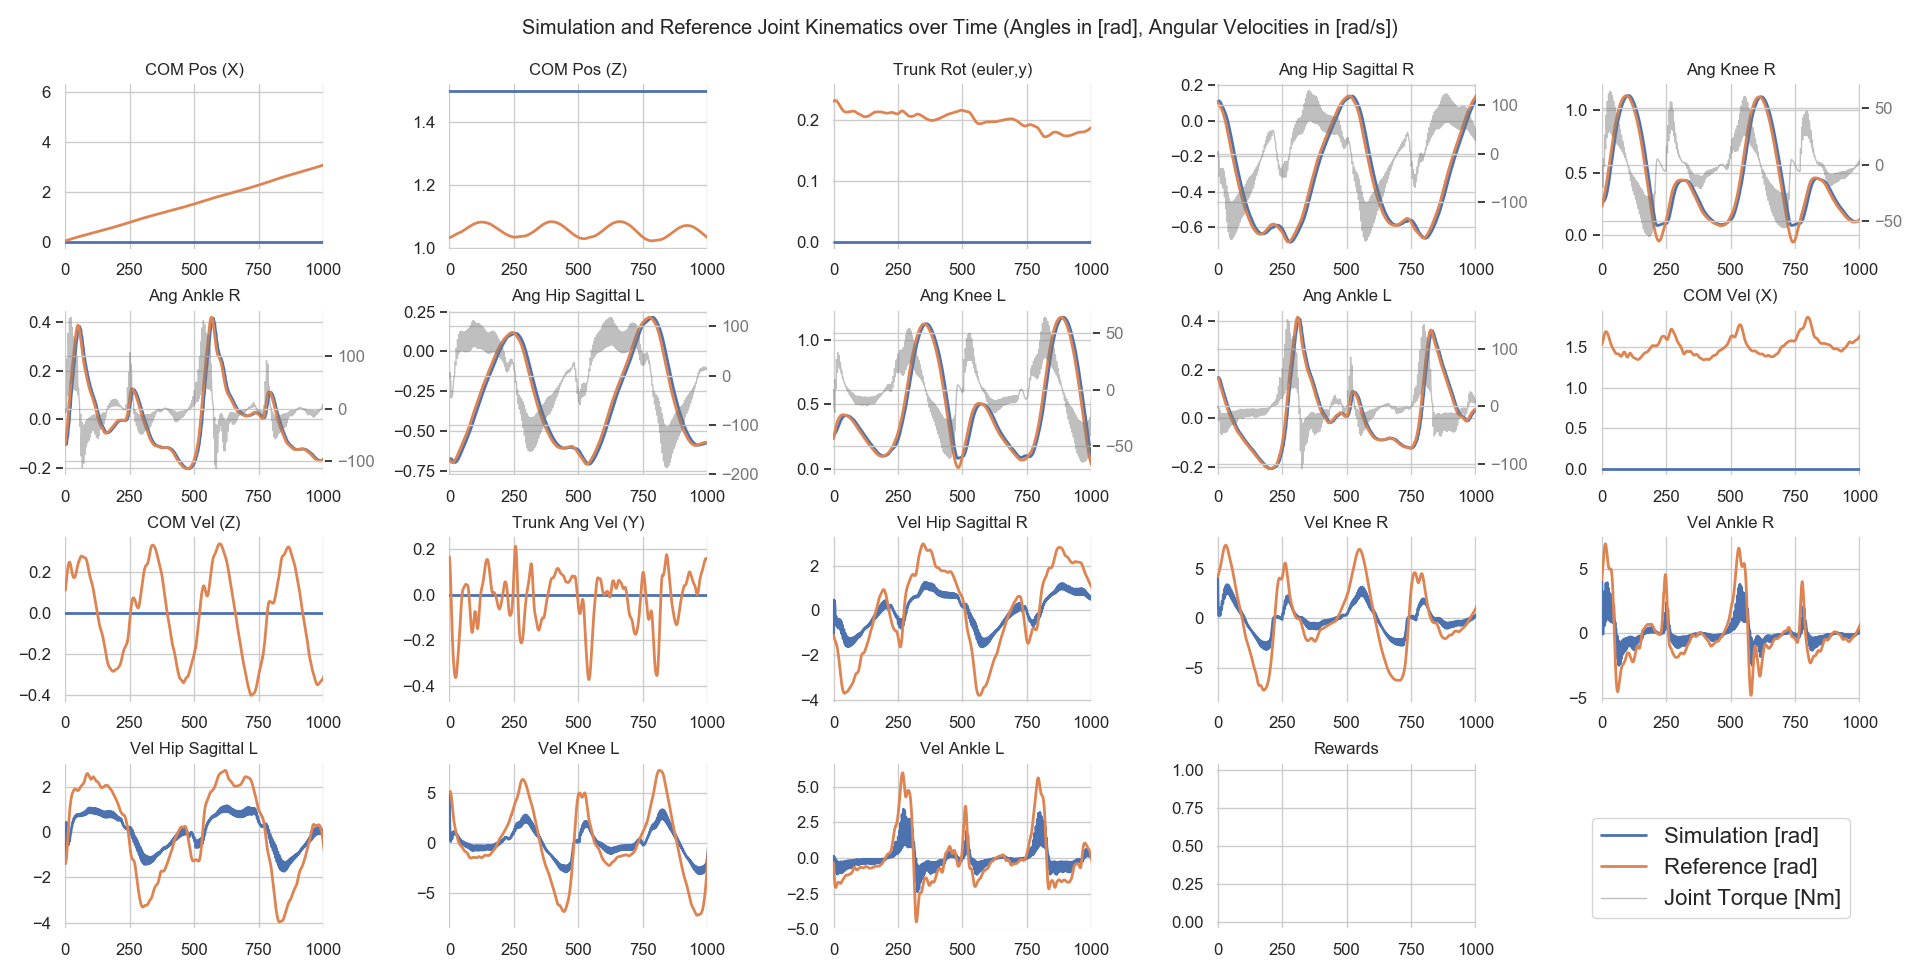
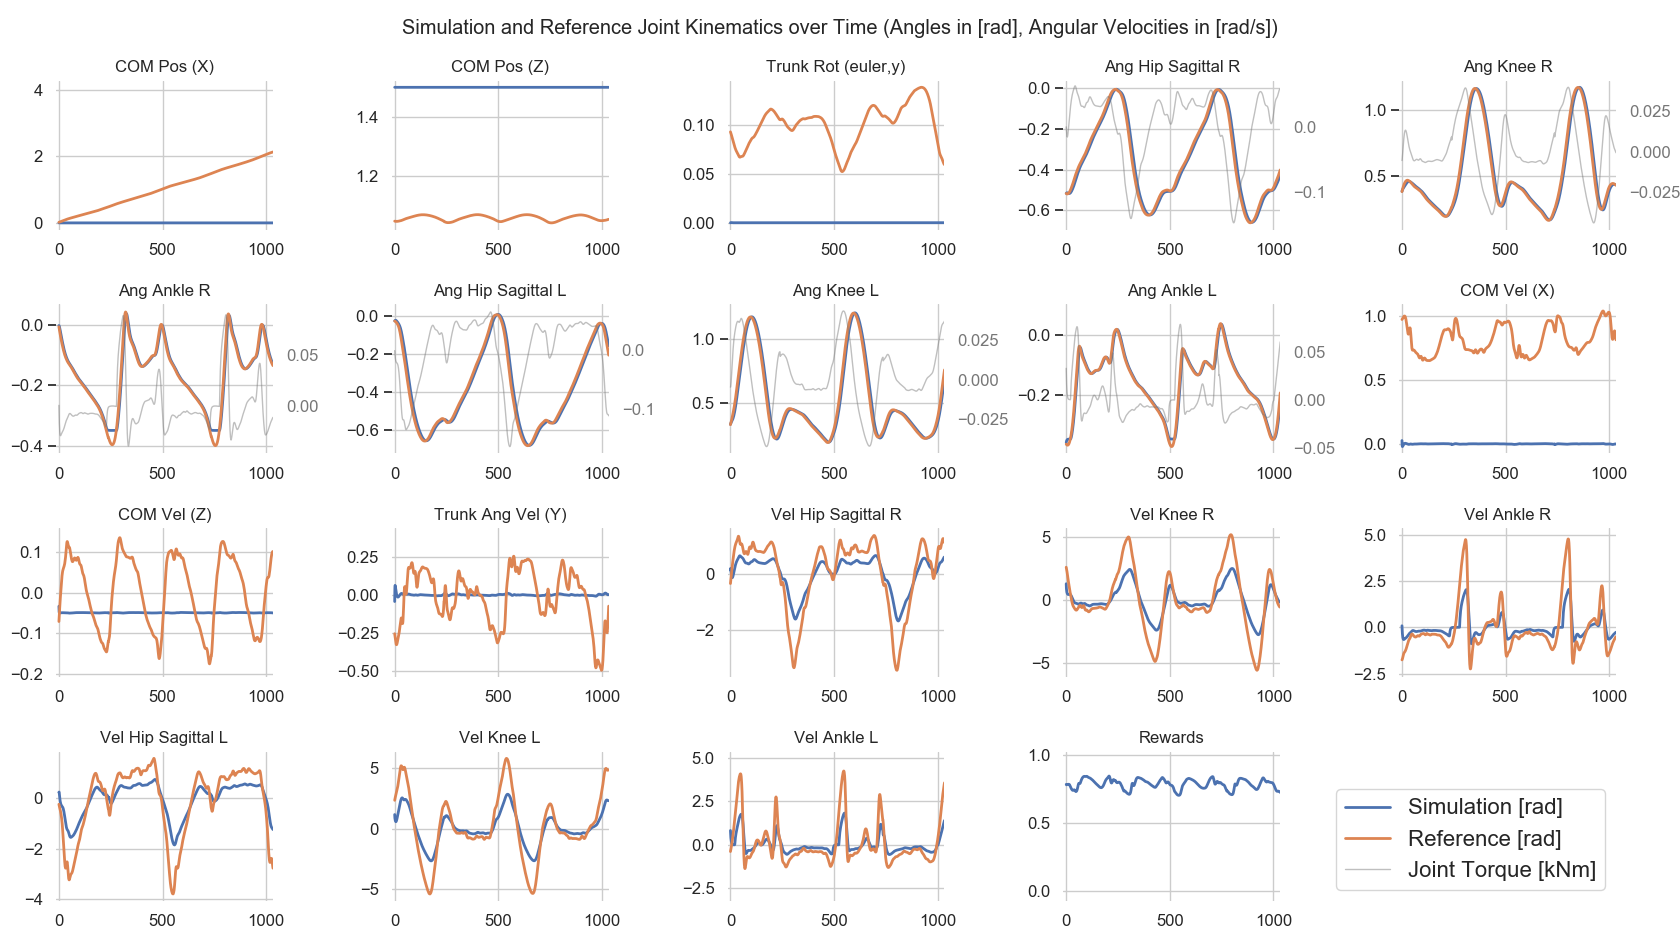
BUG: I was accidentally using frameskip twice resulting in a 40Hz high-level frequency that was too low to have smooth torque and velocity trajectories

diff --git a/mujoco/gym_mimic_envs/mimic_env.py b/mujoco/gym_mimic_envs/mimic_env.py
@@ -117,11 +117,10 @@ class MimicEnv:
                 # des_qpos[1] = 0.4
                 # if i % 60 == 0:
                 #     self.reset()
-                for _ in range(self.frame_skip):
-                    if FLIGHT:
-                        self.sim.data.qpos[[0, 1, 2]] = [0, 1.5, 0]
-                        self.sim.data.qvel[[0, 1, 2]] = 0
-                    obs, reward, done, _ = self.step(des_qpos)
+                if FLIGHT:
+                    self.sim.data.qpos[[0, 1, 2]] = [0, 1.5, 0]
+                    self.sim.data.qvel[[0, 1, 2]] = 0
+                obs, reward, done, _ = self.step(des_qpos)
                 # obs, reward, done, _ = self.step(np.ones_like(des_qpos)*(0))
                 # ankle tune:
                 # obs, reward, done, _ = self.step([0, 0, -0.3, 0, 0, -0.3])
@@ -298,6 +297,7 @@ class MimicEnv:
         com_deviation_prct = com_delta/com_height_des
         allowed_com_deviation_prct = 0.4
         com_max_dev_exceeded = com_deviation_prct > allowed_com_deviation_prct
+        if self._FLY: com_max_dev_exceeded = False
 
         # calculate if trunk angle exceeded limits of 45° (0.785 in rad)
         trunk_ang_exceeded = np.abs(trunk_ang_saggit) > 0.7

diff --git a/mujoco/gym_mimic_envs/monitor.py b/mujoco/gym_mimic_envs/monitor.py
@@ -147,7 +147,7 @@ class Monitor(gym.Wrapper):
             plot_actions(self.torque_buf/1000, "Joint Torque [kNm]")
             second_y_axis_pos = 1.12
 
-        PLOT_ACTIONS = True
+        PLOT_ACTIONS = False
         if PLOT_ACTIONS:
             plot_actions(self.action_buf, 'PD Target [rad]', '#ff0000')
 
@@ -170,9 +170,8 @@ class Monitor(gym.Wrapper):
         plt.plot(self.rewards[-_trajec_buffer_length:])
         plt.vlines(np.argwhere(self.dones_buf).flatten()+1,
                    0 , 1, colors='#cccccc')
-        plt.ylim([-0.775, 1.025])
+        plt.ylim([-0.075, 1.025])
         plt.title('Rewards')
-
 
         plt.show()
         raise SystemExit('Planned exit after closing trajectory comparison plot.')

diff --git a/scripts/tests/test_mimic_env.py b/scripts/tests/test_mimic_env.py
@@ -13,7 +13,12 @@ for i in range(10000):
 
     # obs, reward, done, _ = env.step(np.zeros_like(env.action_space.sample()))
     # obs, reward, done, _ = env.step(np.ones_like(env.action_space.sample()))
-    obs, reward, done, _ = env.step(env.action_space.sample())
+    # obs, reward, done, _ = env.step(env.action_space.sample())
+
+    # follow desired trajecs
+    des_qpos = env.get_ref_qpos(exclude_not_actuated_joints=True)
+    obs, reward, done, _ = env.step(des_qpos)
+
     # env.render()
     if done:
         env.reset()
